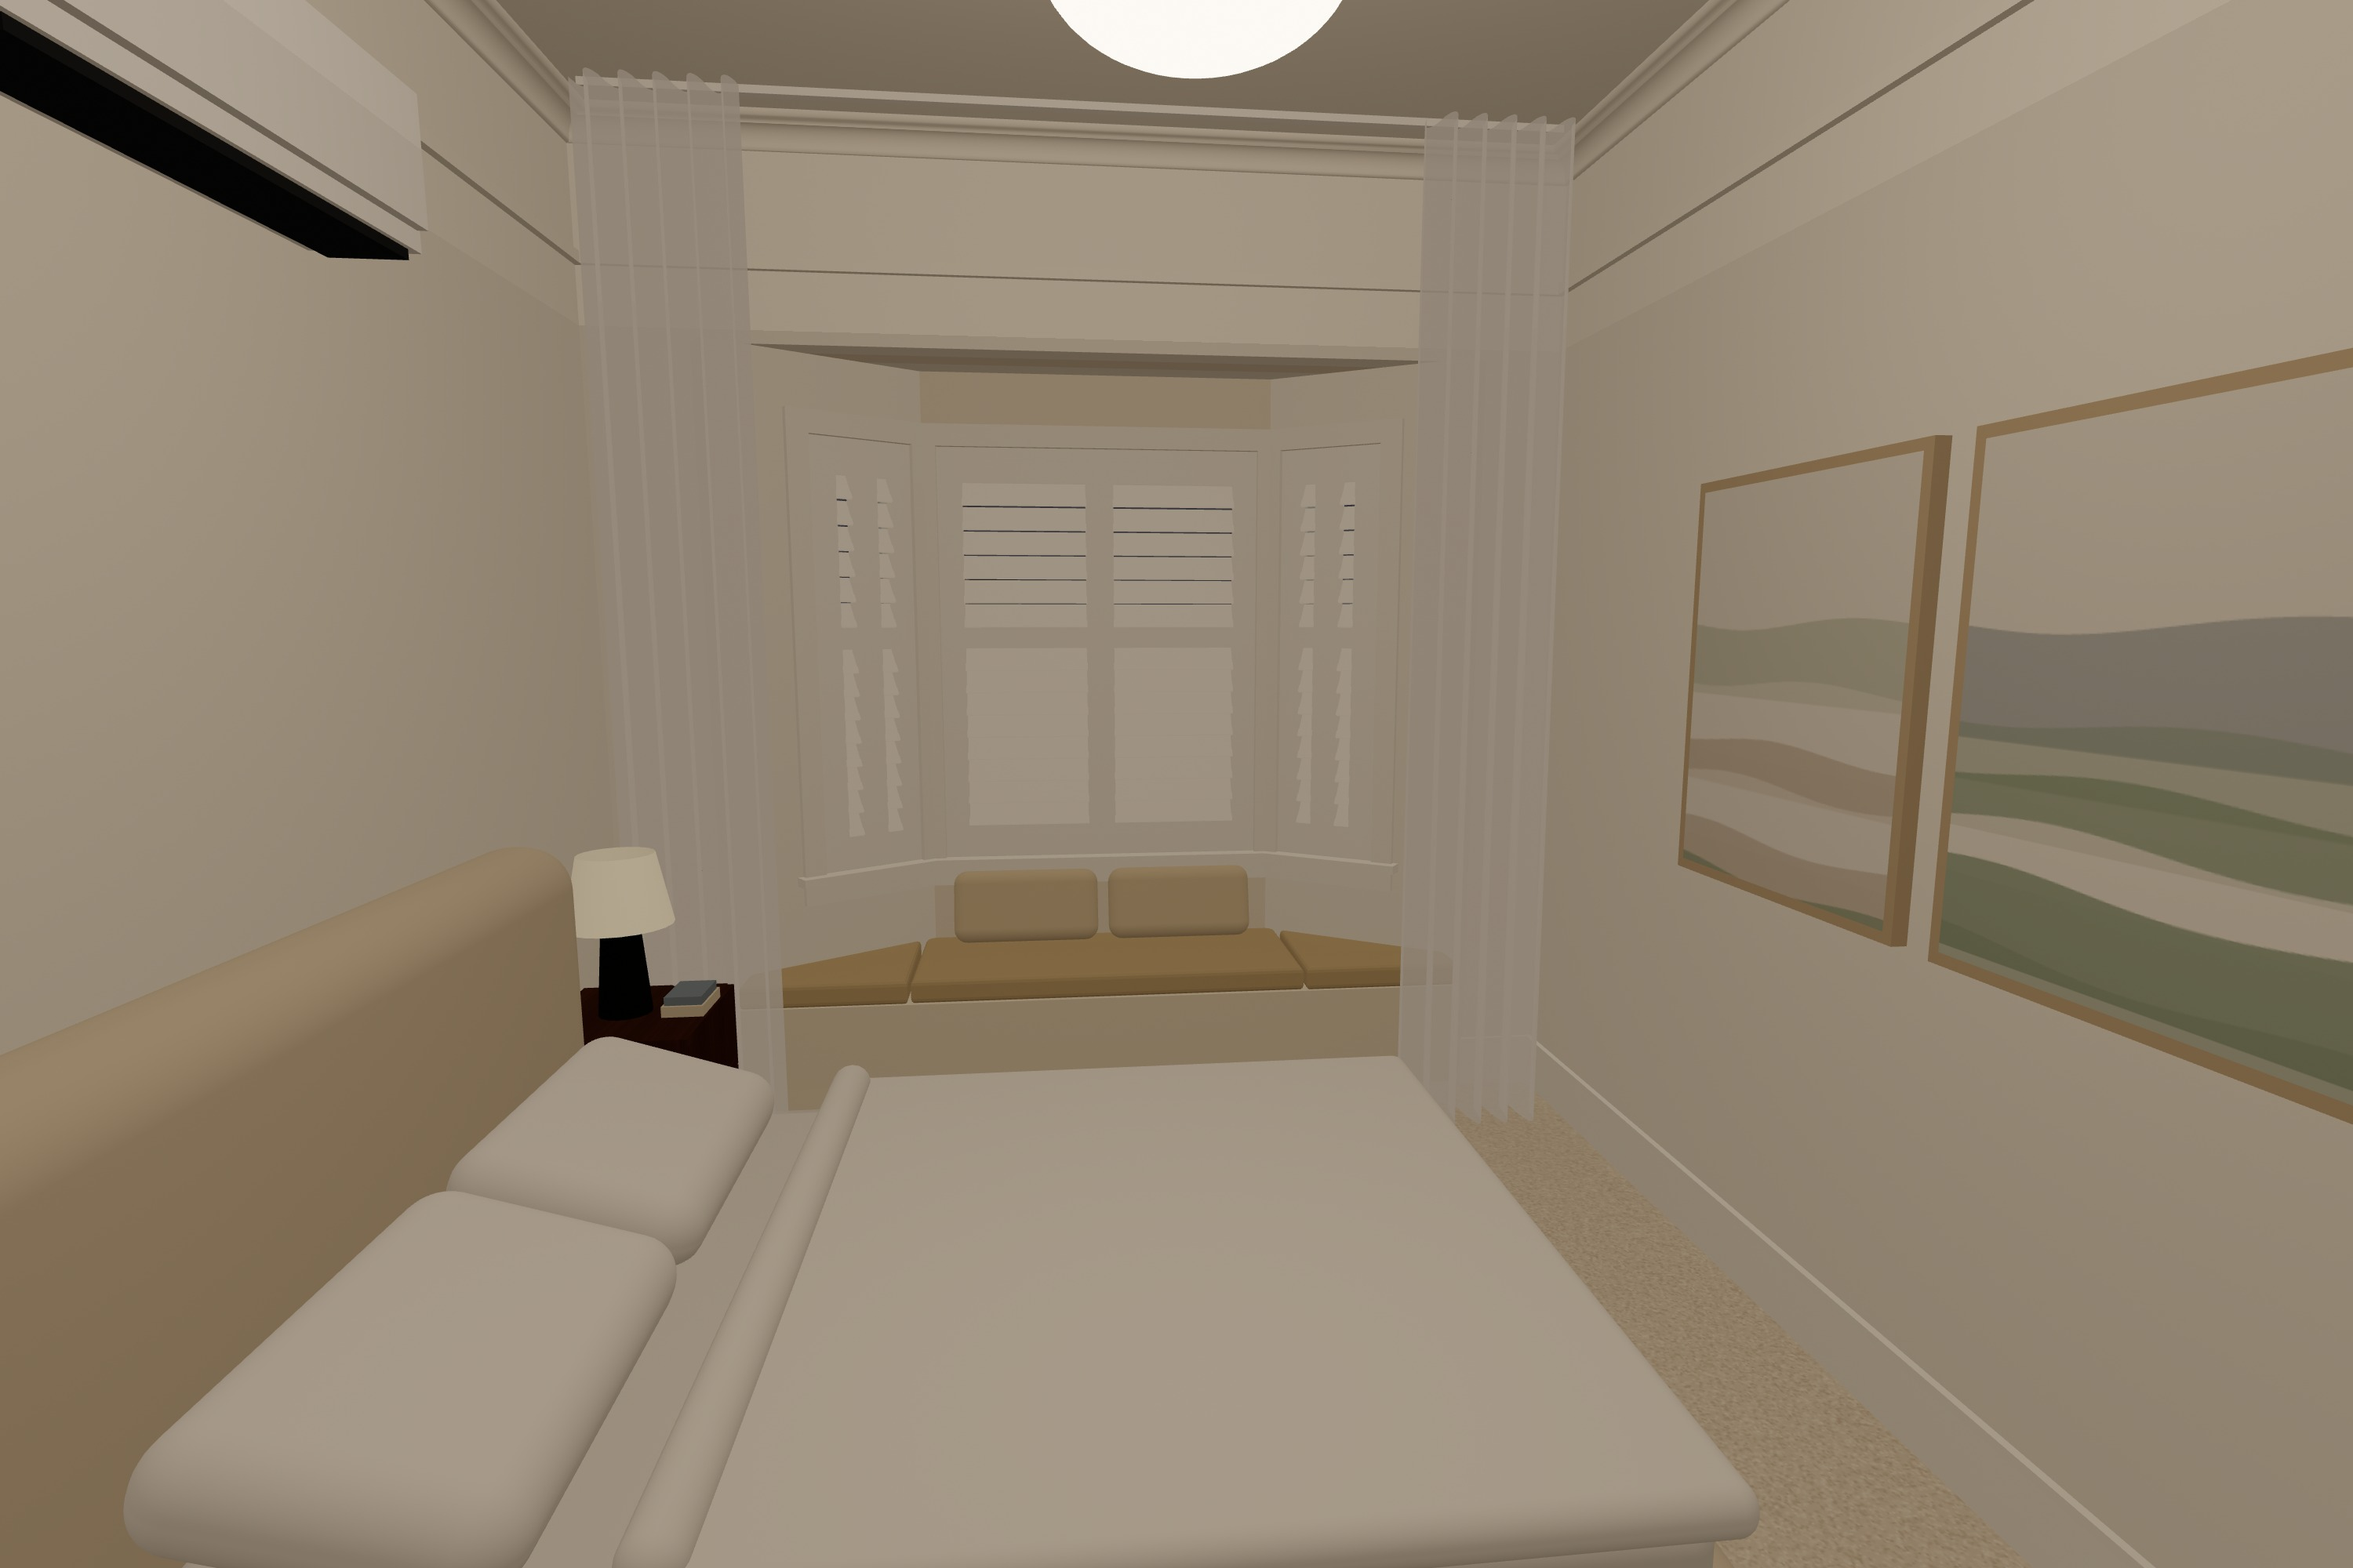
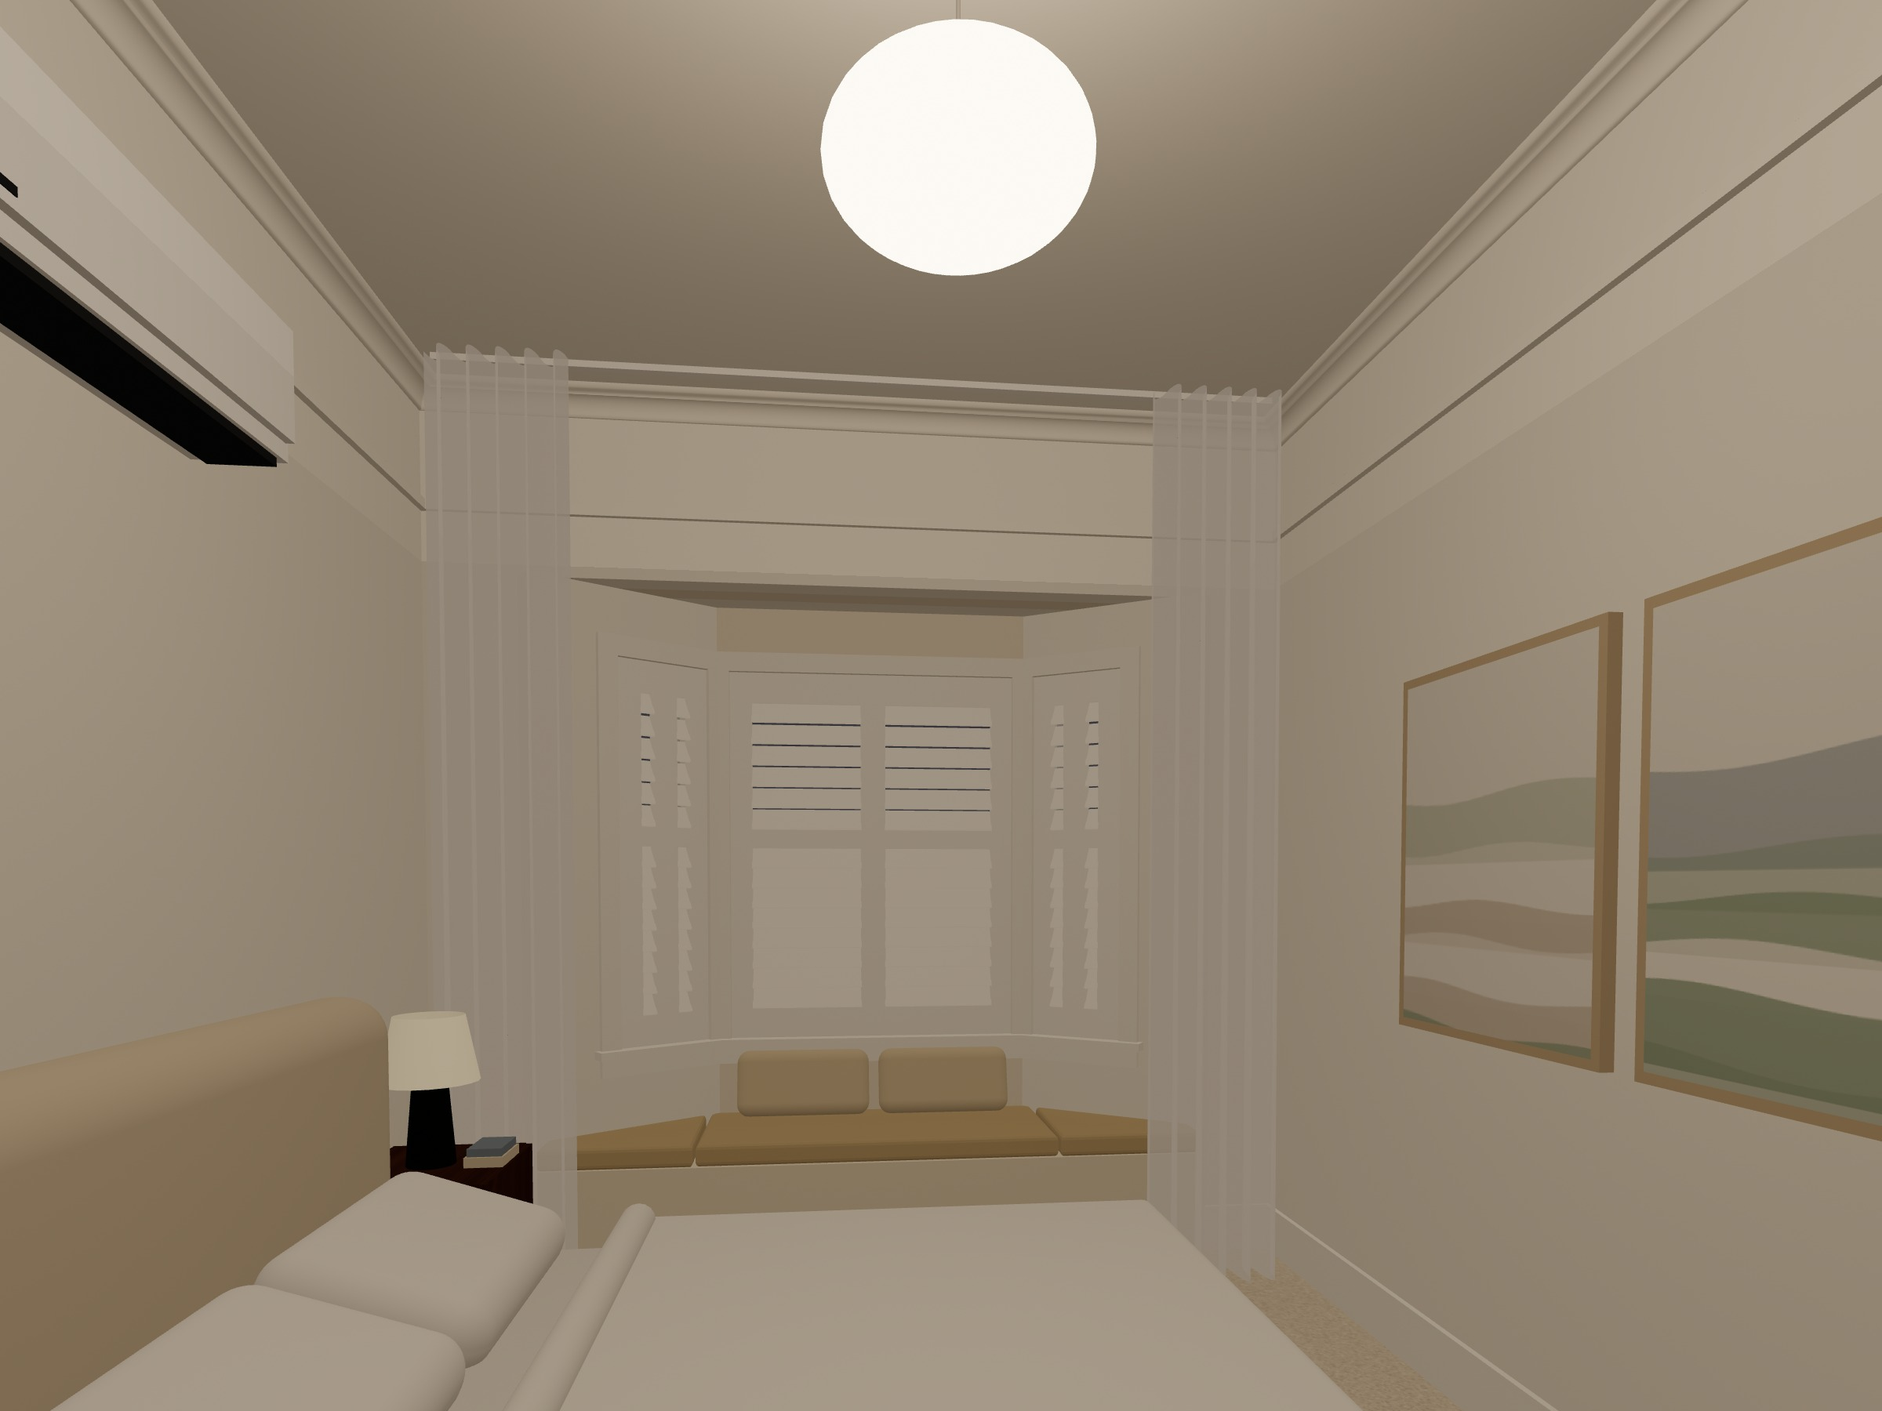
Update model

diff --git a/photos/index.html b/photos/index.html
@@ -26,37 +26,39 @@
 <main>
   <a href="../renovated/">← Back to the 3D house</a>
   <h1>Lighting photos</h1>
-  <p class="sub">13 Fern Ave, renovated, at 9 pm with the proposed lighting on. Rendered from the 3D model with its default choices. Tap a photo for the full-size image.</p>
+  <p class="sub">13 Fern Ave, renovated, at dusk with every light on. Rendered from the 3D model with its default choices, and shot the way a real-estate photographer would (below). Tap a photo for the full-size image.</p>
 
   <h2>Hall</h2>
   <p class="sub">The Made by Mayfair Amalfi alabaster cluster on the entry rose, three small low-glare downlights down the hall, and the painting at the end of the run in the kitchen.</p>
-  <div class="grid">
-    <figure><a href="img/hall-vista.jpg"><img src="img/hall-vista.jpg" width="2000" height="2500" loading="lazy" alt="Hall at night from just inside the front door, the alabaster cluster overhead and the hall running to the kitchen painting"></a>
-      <figcaption><b>From the front door</b>Fisheye lens. The Amalfi cluster overhead, the downlights washing the walls, and the arch framing the kitchen painting.</figcaption></figure>
-    <figure><a href="img/hall-painting.jpg"><img src="img/hall-painting.jpg" width="2000" height="2500" loading="lazy" alt="Long-lens view through the hall arch to the painting on the kitchen wall"></a>
+  <div class="grid wide">
+    <figure><a href="img/hall-vista.jpg?v=3"><img src="img/hall-vista.jpg?v=3" width="2400" height="1800" loading="lazy" alt="Hall at dusk, downlights washing the walls, through the arch to the kitchen painting"></a>
+      <figcaption><b>Down the hall</b>From just past the Amalfi cluster: the downlights wash the walls, and the arch frames the kitchen painting.</figcaption></figure>
+    <figure><a href="img/hall-painting.jpg?v=3"><img src="img/hall-painting.jpg?v=3" width="2400" height="1800" loading="lazy" alt="Long-lens view through the hall arch to the painting on the kitchen wall"></a>
       <figcaption><b>Down the hall to the painting</b>Long lens from mid-hall, through the arch to the end-of-vista painting beside the bathroom door.</figcaption></figure>
-    <figure><a href="img/hall-back.jpg?v=2"><img src="img/hall-back.jpg?v=2" width="2000" height="2500" loading="lazy" alt="From the kitchen looking back up the hall to the front door and the glowing cluster"></a>
-      <figcaption><b>From the kitchen, looking back</b>Taken low, from in front of the painting, back up the hall to the cluster and the front door.</figcaption></figure>
-    <figure><a href="img/amalfi.jpg"><img src="img/amalfi.jpg" width="2000" height="2500" loading="lazy" alt="Close view of the five alabaster pebbles hanging from the ornate entry ceiling rose"></a>
+    <figure><a href="img/hall-back.jpg?v=3"><img src="img/hall-back.jpg?v=3" width="2400" height="1800" loading="lazy" alt="From the kitchen looking back up the hall to the front door and the glowing cluster"></a>
+      <figcaption><b>From the kitchen, looking back</b>From in front of the painting, back up the hall to the cluster and the front door.</figcaption></figure>
+    <figure><a href="img/amalfi.jpg?v=3"><img src="img/amalfi.jpg?v=3" width="2400" height="1800" loading="lazy" alt="Close view of the five alabaster pebbles hanging from the ornate entry ceiling rose"></a>
       <figcaption><b>The Amalfi cluster</b>Five alabaster pebbles spiralling from 2.7 down to 2.1 m on the entry's ornate rose.</figcaption></figure>
   </div>
 
   <h2>Front bedroom</h2>
   <p class="sub">August oval pendant on the rose, LED strip on top of the robe washing the cornice, a strip under the robe, and bedside lamps.</p>
   <div class="grid wide">
-    <figure><a href="img/front-bed.jpg?v=2"><img src="img/front-bed.jpg?v=2" width="3000" height="2000" loading="lazy" alt="Front bedroom at night from the bay, robe-top light washing the cornice, bed and lamp"></a>
-      <figcaption><b>From the bay</b>The pendant on its rose, the robe-top strip lighting the cornice, with a soft glow under the robe.</figcaption></figure>
-    <figure><a href="img/front-bed-2.jpg"><img src="img/front-bed-2.jpg" width="3000" height="2000" loading="lazy" alt="Front bedroom from the robe looking to the bay window seat, art on the right"></a>
+    <figure><a href="img/front-bed.jpg?v=3"><img src="img/front-bed.jpg?v=3" width="2400" height="1800" loading="lazy" alt="Front bedroom at night from the bay, robe-top light washing the cornice, bed and lamp"></a>
+      <figcaption><b>From the bay</b>Corner view: the pendant on its rose, the robe-top strip lighting the cornice, and a soft glow under the robe.</figcaption></figure>
+    <figure><a href="img/front-bed-2.jpg?v=3"><img src="img/front-bed-2.jpg?v=3" width="2400" height="1800" loading="lazy" alt="Front bedroom from the robe looking to the bay window seat, art on the right"></a>
       <figcaption><b>Towards the bay</b>From the robe, past the bed to the bay window seat.</figcaption></figure>
   </div>
 
   <h2>Bedroom 2</h2>
   <div class="grid wide">
-    <figure><a href="img/bed2.jpg"><img src="img/bed2.jpg" width="3000" height="2000" loading="lazy" alt="Bedroom 2 at night, bed against the north wall with lamps either side"></a>
-      <figcaption><b>The bed wall</b>From the robe corner: bedside lamps either side, art above the bed.</figcaption></figure>
-    <figure><a href="img/bed2-robe.jpg"><img src="img/bed2-robe.jpg" width="3000" height="2000" loading="lazy" alt="Bedroom 2 robe wall with the oval pendant and the light on the cornice above the robe"></a>
-      <figcaption><b>The robe wall</b>The oval pendant, and the robe-top strip lighting the cornice.</figcaption></figure>
+    <figure><a href="img/bed2.jpg?v=3"><img src="img/bed2.jpg?v=3" width="2400" height="1800" loading="lazy" alt="Bedroom 2 at night, bed against the north wall with lamps either side"></a>
+      <figcaption><b>The bed wall</b>Corner view from the robe: bedside lamps either side, art above the bed, the window at dusk.</figcaption></figure>
+    <figure><a href="img/bed2-robe.jpg?v=3"><img src="img/bed2-robe.jpg?v=3" width="2400" height="1800" loading="lazy" alt="Bedroom 2 robe wall with the oval pendant and the light on the cornice above the robe"></a>
+      <figcaption><b>The robe wall</b>The oval pendant on its rose, and the robe-top strip lighting the cornice.</figcaption></figure>
   </div>
+  <h2>How these were shot</h2>
+  <p class="sub">Following common real-estate photography practice: camera at chest height (1.3 m) and kept level, so walls and door frames stay vertical, with the frame shifted up (as a tilt-shift lens does) to take in the ceilings and pendants. A 16-24 mm full-frame-equivalent lens for the rooms and a longer one for the two detail shots (the painting and the Amalfi cluster), no fisheye. Rooms shot from a corner to show two or three walls, the hall straight down its length. 4:3 landscape at 2400 x 1800, the realestate.com.au ratio. Dusk with all the lights on, so the windows read deep blue rather than black.</p>
 </main>
 </body>
 </html>
